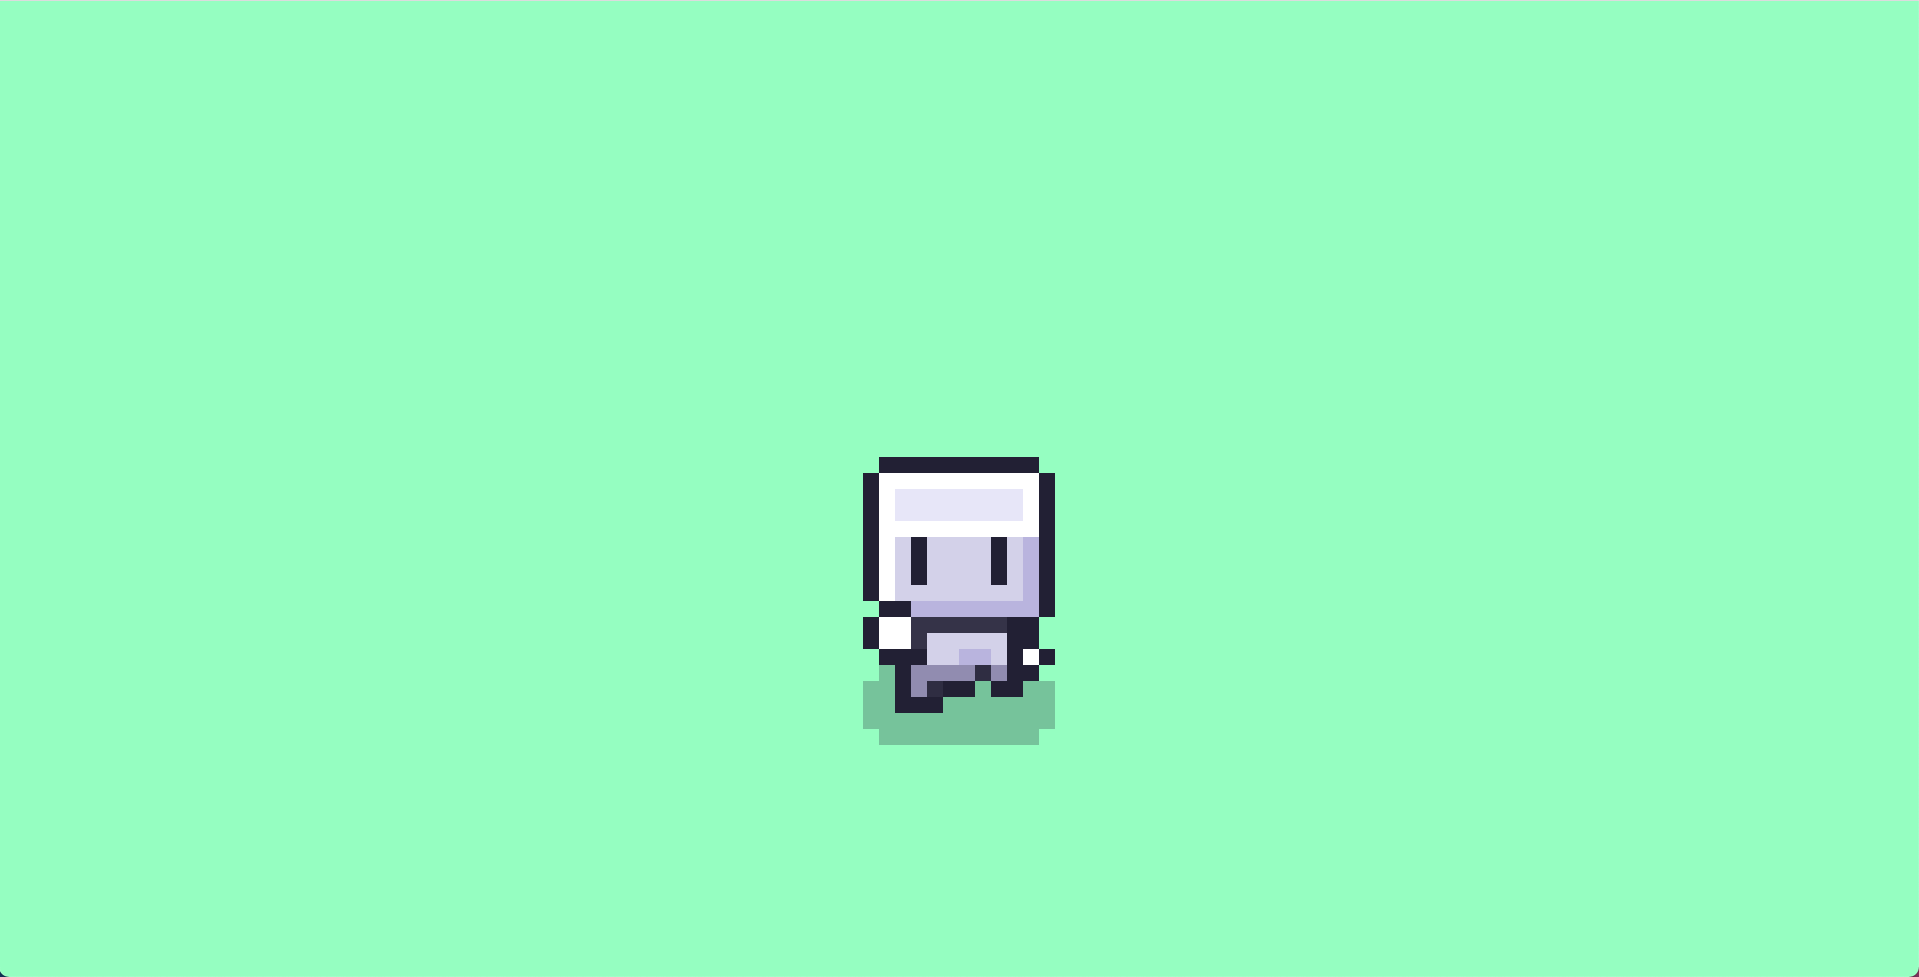
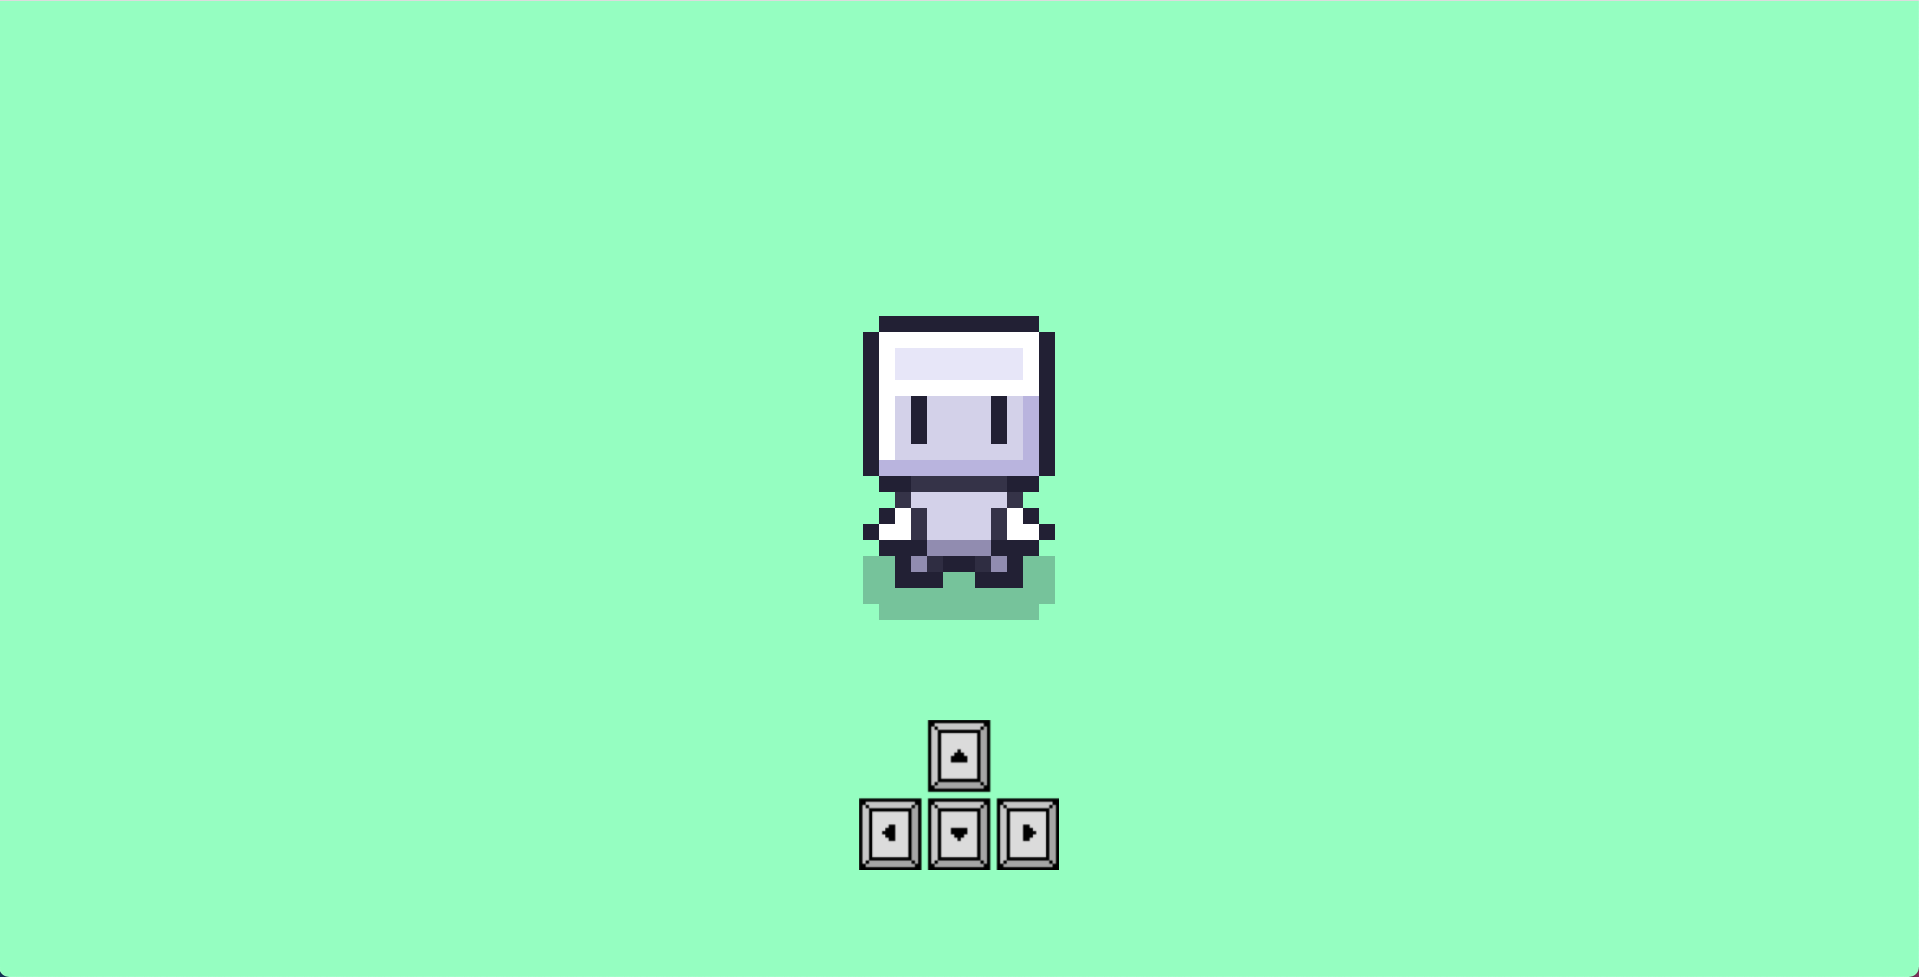
game healthbar was added

Changed region(s): [[0.4304, 0.3071, 0.5534, 0.8905]]

diff --git a/game-inventory/index.html b/game-inventory/index.html
@@ -16,7 +16,7 @@
             <svg class="shadow" viewBox="0 0 156 73" fill="none" xmlns="http://www.w3.org/2000/svg">
                 <ellipse id="shadow" cx="78" cy="36.5" rx="78" ry="36.5" fill="#07123C" fill-opacity="0.19"/>
             </svg>
-            <img alt="Bowling Ball" src="https://assets.codepen.io/21542/BowlingBall.2x.png"/>
+            <img alt="Bowling Ball" src="assets/BowlingBall.2x.png"/>
         </div>
         <span class="item-title">Bowling Ball</span>
     </div>
@@ -25,14 +25,14 @@
             <svg class="shadow" viewBox="0 0 156 73" fill="none" xmlns="http://www.w3.org/2000/svg">
                 <use href="#shadow"/>
             </svg>
-            <img class="large" alt="Sword" src="https://assets.codepen.io/21542/Sword.4x.png"/>
+            <img class="large" alt="Sword" src="assets/Sword.4x.png"/>
         </div>
         <span class="item-title">Sword</span>
     </div>
 
     <div class="card card-c">
         <div class="image-container">
-            <img alt="Shield" src="https://assets.codepen.io/21542/Shield.4x.png"/>
+            <img alt="Shield" src="assets/Shield.4x.png"/>
             <svg class="shadow" viewBox="0 0 156 73" fill="none" xmlns="http://www.w3.org/2000/svg">
                 <use href="#shadow"/>
             </svg>
@@ -44,7 +44,7 @@
             <svg class="shadow" viewBox="0 0 156 73" fill="none" xmlns="http://www.w3.org/2000/svg">
                 <use href="#shadow"/>
             </svg>
-            <img alt="Hat" src="https://assets.codepen.io/21542/Hat.2x.png"/>
+            <img alt="Hat" src="assets/Hat.2x.png"/>
         </div>
         <span class="item-title">Hat</span>
     </div>
@@ -54,7 +54,7 @@
             <svg class="shadow" viewBox="0 0 156 73" fill="none" xmlns="http://www.w3.org/2000/svg">
                 <use href="#shadow"/>
             </svg>
-            <img alt="Box" src="https://assets.codepen.io/21542/Box.2x.png"/>
+            <img alt="Box" src="assets/BowlingBall.2x.png"/>
         </div>
         <span class="item-title">Box</span>
     </div>
@@ -64,7 +64,7 @@
             <svg class="shadow" viewBox="0 0 156 73" fill="none" xmlns="http://www.w3.org/2000/svg">
                 <use href="#shadow"/>
             </svg>
-            <img alt="Banana" src="https://assets.codepen.io/21542/Banana.2x.png"/>
+            <img alt="Banana" src="assets/Banana.2x.png"/>
         </div>
         <span class="item-title">Banana</span>
     </div>
@@ -74,13 +74,13 @@
             <svg class="shadow" viewBox="0 0 156 73" fill="none" xmlns="http://www.w3.org/2000/svg">
                 <use href="#shadow"/>
             </svg>
-            <img alt="Gem" src="https://assets.codepen.io/21542/Gem.2x.png"/>
+            <img alt="Gem" src="assets/Gem.2x.png"/>
         </div>
         <span class="item-title">Gem</span>
     </div>
     <div class="card card-h">
         <div class="image-container">
-            <img alt="Purple Rock" src="https://assets.codepen.io/21542/PurpleRock.2x.png"/>
+            <img alt="Purple Rock" src="assets/PurpleRock.2x.png"/>
             <svg class="shadow" viewBox="0 0 156 73" fill="none" xmlns="http://www.w3.org/2000/svg">
                 <use href="#shadow"/>
             </svg>

diff --git a/game-healthbar/index.html b/game-healthbar/index.html
@@ -1,0 +1,50 @@
+<!DOCTYPE html>
+<html lang="en">
+<head>
+    <meta charset="UTF-8">
+    <title>Game Healthbar</title>
+    <link rel="stylesheet" href="style.css">
+</head>
+<body>
+
+<div class="container">
+
+    <!-- HP Title -->
+    <svg class="title" xmlns="http://www.w3.org/2000/svg" viewBox="0 -0.5 9 7" shape-rendering="crispEdges">
+        <path stroke="#222034" d="M0 0h9M0 1h1M2 1h1M4 1h1M8 1h1M0 2h1M2 2h1M4 2h1M6 2h1M8 2h1M0 3h1M4 3h1M8 3h1M0 4h1M2 4h1M4 4h1M6 4h3M0 5h1M2 5h1M4 5h1M6 5h1M0 6h7" />
+        <path stroke="#ffffff" d="M1 1h1M3 1h1M5 1h3" />
+        <path stroke="#f2f2f5" d="M1 2h1M3 2h1M5 2h1M7 2h1M1 3h3M5 3h3M1 4h1M3 4h1M5 4h1M1 5h1M3 5h1M5 5h1" />
+    </svg>
+
+    <!-- Healthbar bottle -->
+    <svg class="healthbar" xmlns="http://www.w3.org/2000/svg" viewBox="0 -0.5 38 9" shape-rendering="crispEdges">
+        <metadata>Made with Pixels to Svg https://codepen.io/shshaw/pen/XbxvNj</metadata>
+        <path stroke="#222034"
+              d="M2 0h34M1 1h1M36 1h1M0 2h1M3 2h32M37 2h1M0 3h1M2 3h1M35 3h1M37 3h1M0 4h1M2 4h1M35 4h1M37 4h1M0 5h1M2 5h1M35 5h1M37 5h1M0 6h1M3 6h32M37 6h1M1 7h1M36 7h1M2 8h34"/>
+        <path stroke="#ffffff" d="M2 1h34"/>
+        <path stroke="#f2f2f5" d="M1 2h2M35 2h2M1 3h1M36 3h1M1 4h1M36 4h1M1 5h1M36 5h1M1 6h2M35 6h2M2 7h34"/>
+        <path stroke="#323c39" d="M3 3h32"/>
+        <path stroke="#494d4c" d="M3 4h32M3 5h32"/>
+
+        <!-- Colored bar liquid -->
+        <!-- Y is 2.5, because we have outer svg with "-0.5" in the viewBox="0 -0.5 38 9" -->
+        <svg x="3" y="2.5" height="3" width="32">
+            <rect class="healthbar__fill" height="100%" width="100%" fill="cyan"/>
+            <rect class="healthbar__fill healthbar__fill--top" height="1" width="100%" fill="red"/>
+        </svg>
+    </svg>
+
+
+    <div class="button-container">
+        <button class="button" onclick="updateHP(-15)">
+            <img src="assets/HealthDemoDown.png" alt="Less Health" />
+        </button>
+        <button class="button" onclick="updateHP(15)">
+            <img src="assets/HealthDemoUp.png" alt="More Health" />
+        </button>
+    </div>
+</div>
+
+<script type="text/javascript" src="index.js"></script>
+</body>
+</html>

diff --git a/game-character/style.css b/game-character/style.css
@@ -14,59 +14,65 @@ body {
     display: flex;
     align-items: center;
     justify-content: center;
+    flex-direction: column;
     height: 100vh;
     background: #96ffc1;
- }
+}
 
- .character-box {
+.character-box {
     width: calc(32px * var(--pixel-size));
     height: calc(32px * var(--pixel-size));
     overflow: hidden;
     position: relative;
- }
+}
 
- /*
- steps - an animation option, the same as linear or ease-out
- steps(4) - will perform not smooth animation, but in 4 frames
- */
- .character_spritesheet {
+/*
+steps - an animation option, the same as linear or ease-out
+steps(4) - will perform not smooth animation, but in 4 frames
+*/
+.character_spritesheet {
     position: absolute;
     width: calc(128px * var(--pixel-size)); /* 128px = 32px of each sprite * 4 sprites */
     animation: moveSpritesheet 1s steps(4) infinite;
 
 }
 
- .character-shadow_sprite {
-     position: absolute;
-     width: calc(32px * var(--pixel-size));
- }
+.character-shadow_sprite {
+    position: absolute;
+    width: calc(32px * var(--pixel-size));
+}
 
- .pixelart {
-     image-rendering: pixelated; /* removes browser bluring and beautifiying of small images */
- }
+.pixelart {
+    image-rendering: pixelated; /* removes browser bluring and beautifiying of small images */
+}
 
- .move-down {
+.move-down {
     top: calc(0px * var(--pixel-size));
- }
+}
 
- .move-right {
+.move-right {
     top: calc(-32px * var(--pixel-size));
- }
+}
 
- .move-up {
+.move-up {
     top: calc(-64px * var(--pixel-size));
- }
+}
 
- .move-left {
+.move-left {
     top: calc(-96px * var(--pixel-size));
- }
+}
 
- /* takes image from its original position and moves it 100% of itself to left */
- @keyframes moveSpritesheet {
+.navigation-arrows {
+    margin-top: 100px;
+    width: 200px;
+}
+
+/* takes image from its original position and moves it 100% of itself to left */
+@keyframes moveSpritesheet {
     from {
-       transform: translate3d(0px,0,0)
+        transform: translate3d(0px, 0, 0)
     }
     to {
-       transform: translate3d(-100%,0,0)
+        transform: translate3d(-100%, 0, 0)
     }
- }
+}

diff --git a/game-healthbar/index.js b/game-healthbar/index.js
@@ -1,0 +1,38 @@
+// CSSStyleDeclaration.setProperty() - sets a new value for a property on a CSS style declaration object
+
+const healthLiquidFills = document.querySelectorAll('.healthbar__fill');
+
+const maxHP = 100;
+let currentHP = 100;
+
+function updateHP(changeHP) {
+    currentHP = (currentHP + changeHP > maxHP) ? maxHP : currentHP + changeHP;
+    if (currentHP < 0) {
+        currentHP = 0;
+    }
+    renderHealthLiquidFills();
+}
+
+function renderHealthLiquidFills() {
+    const percentHP = currentHP / maxHP * 100;
+
+    // Apply color values to css variables
+    document.documentElement.style.setProperty('--bar-fill', '#57e705');
+    document.documentElement.style.setProperty('--bar-top', '#6aff03');
+
+    if (percentHP <= 50) {
+        document.documentElement.style.setProperty('--bar-fill', '#d6ed20');
+        document.documentElement.style.setProperty('--bar-top', '#d8ff48');
+    }
+    if (percentHP <= 25) {
+        document.documentElement.style.setProperty('--bar-fill', '#ec290a');
+        document.documentElement.style.setProperty('--bar-top', '#ff3818');
+    }
+
+    healthLiquidFills.forEach(fill => {
+        fill.style.width = `${percentHP}%`;
+    })
+}
+
+//init Rendering with default 50 HP
+updateHP(-50)

diff --git a/game-healthbar/style.css b/game-healthbar/style.css
@@ -1,0 +1,68 @@
+:root {
+    --bar-fill: #57e705;
+    --bar-top: #6aff03;
+    --pixel-size: 7;
+}
+
+* {
+    margin: 0;
+    padding: 0;
+    box-sizing: border-box;
+}
+
+body {
+    height: 100vh;
+    background: #de88ff;
+    display: flex;
+    align-items: center;
+}
+
+.container {
+    width: calc(48px * var(--pixel-size));
+    margin: 4em auto;
+}
+
+.title {
+    width: calc(9px * var(--pixel-size));
+    margin-bottom: calc(2px * var(--pixel-size));
+    display: block;
+}
+
+.healthbar {
+    width: 100%;
+    margin: 0 auto calc(2px * var(--pixel-size)) auto;
+    display: block;
+}
+
+.healthbar__fill {
+    fill: var(--bar-fill);
+    transition: width 0.1s linear, fill 0.2s linear;
+}
+
+.healthbar__fill--top {
+    fill: var(--bar-top);
+    transition: width 0.1s linear, fill 0.2s linear;
+}
+
+.button-container {
+    display: flex;
+    justify-content: space-between;
+    margin-bottom: 1em;
+}
+
+.button {
+    padding: 0;
+    border: 1px solid rgba(0,0,0,0);
+    background: none;
+    cursor: pointer;
+    outline: none;
+}
+
+.button:focus {
+    border: 1px solid white;
+}
+
+.button img {
+    width: calc(9px * var(--pixel-size));
+    image-rendering: pixelated;
+}

diff --git a/apple-svg-logo/index.html b/apple-svg-logo/index.html
@@ -27,7 +27,7 @@
                 <feGaussianBlur in="SourceAlpha" stdDeviation="9"/>
                 <feOffset dx="20" dy="20" result="offsetblur"/>
 
-                <!-- Change opacity of the shadow, but now disable dbecause of feFlood below -->
+                <!-- Change opacity of the shadow, but now disabled because of feFlood below -->
                 <!--<feComponentTransfer>
                     <feFuncA type="linear" slope="0.2"/>
                 </feComponentTransfer>-->

diff --git a/game-character/index.html b/game-character/index.html
@@ -11,6 +11,8 @@
         <img class="character-shadow_sprite pixelart" src="assets/shadow.png" alt="shadow" />
     </div>
 
+    <img class="navigation-arrows" src="assets/arrows.png" alt="keyboard-arrows">
+
     <script type="text/javascript" src="index.js"></script>
 </body>
 </html>

diff --git a/index.js b/index.js
@@ -8,6 +8,7 @@ const projects = [
     'curves',
     'flying-balls',
     'game-character',
+    'game-healthbar',
     'game-text-box',
     'game-inventory',
     'google-fonts',

diff --git a/apple-svg-logo/style.css b/apple-svg-logo/style.css
@@ -1,3 +1,9 @@
+/*
+Changing color of SVG icons:
+stroke: red; - for outlined
+fill:; red - for solid ones
+*/
+
 body {
     height: 100vh;
     margin: 0;
